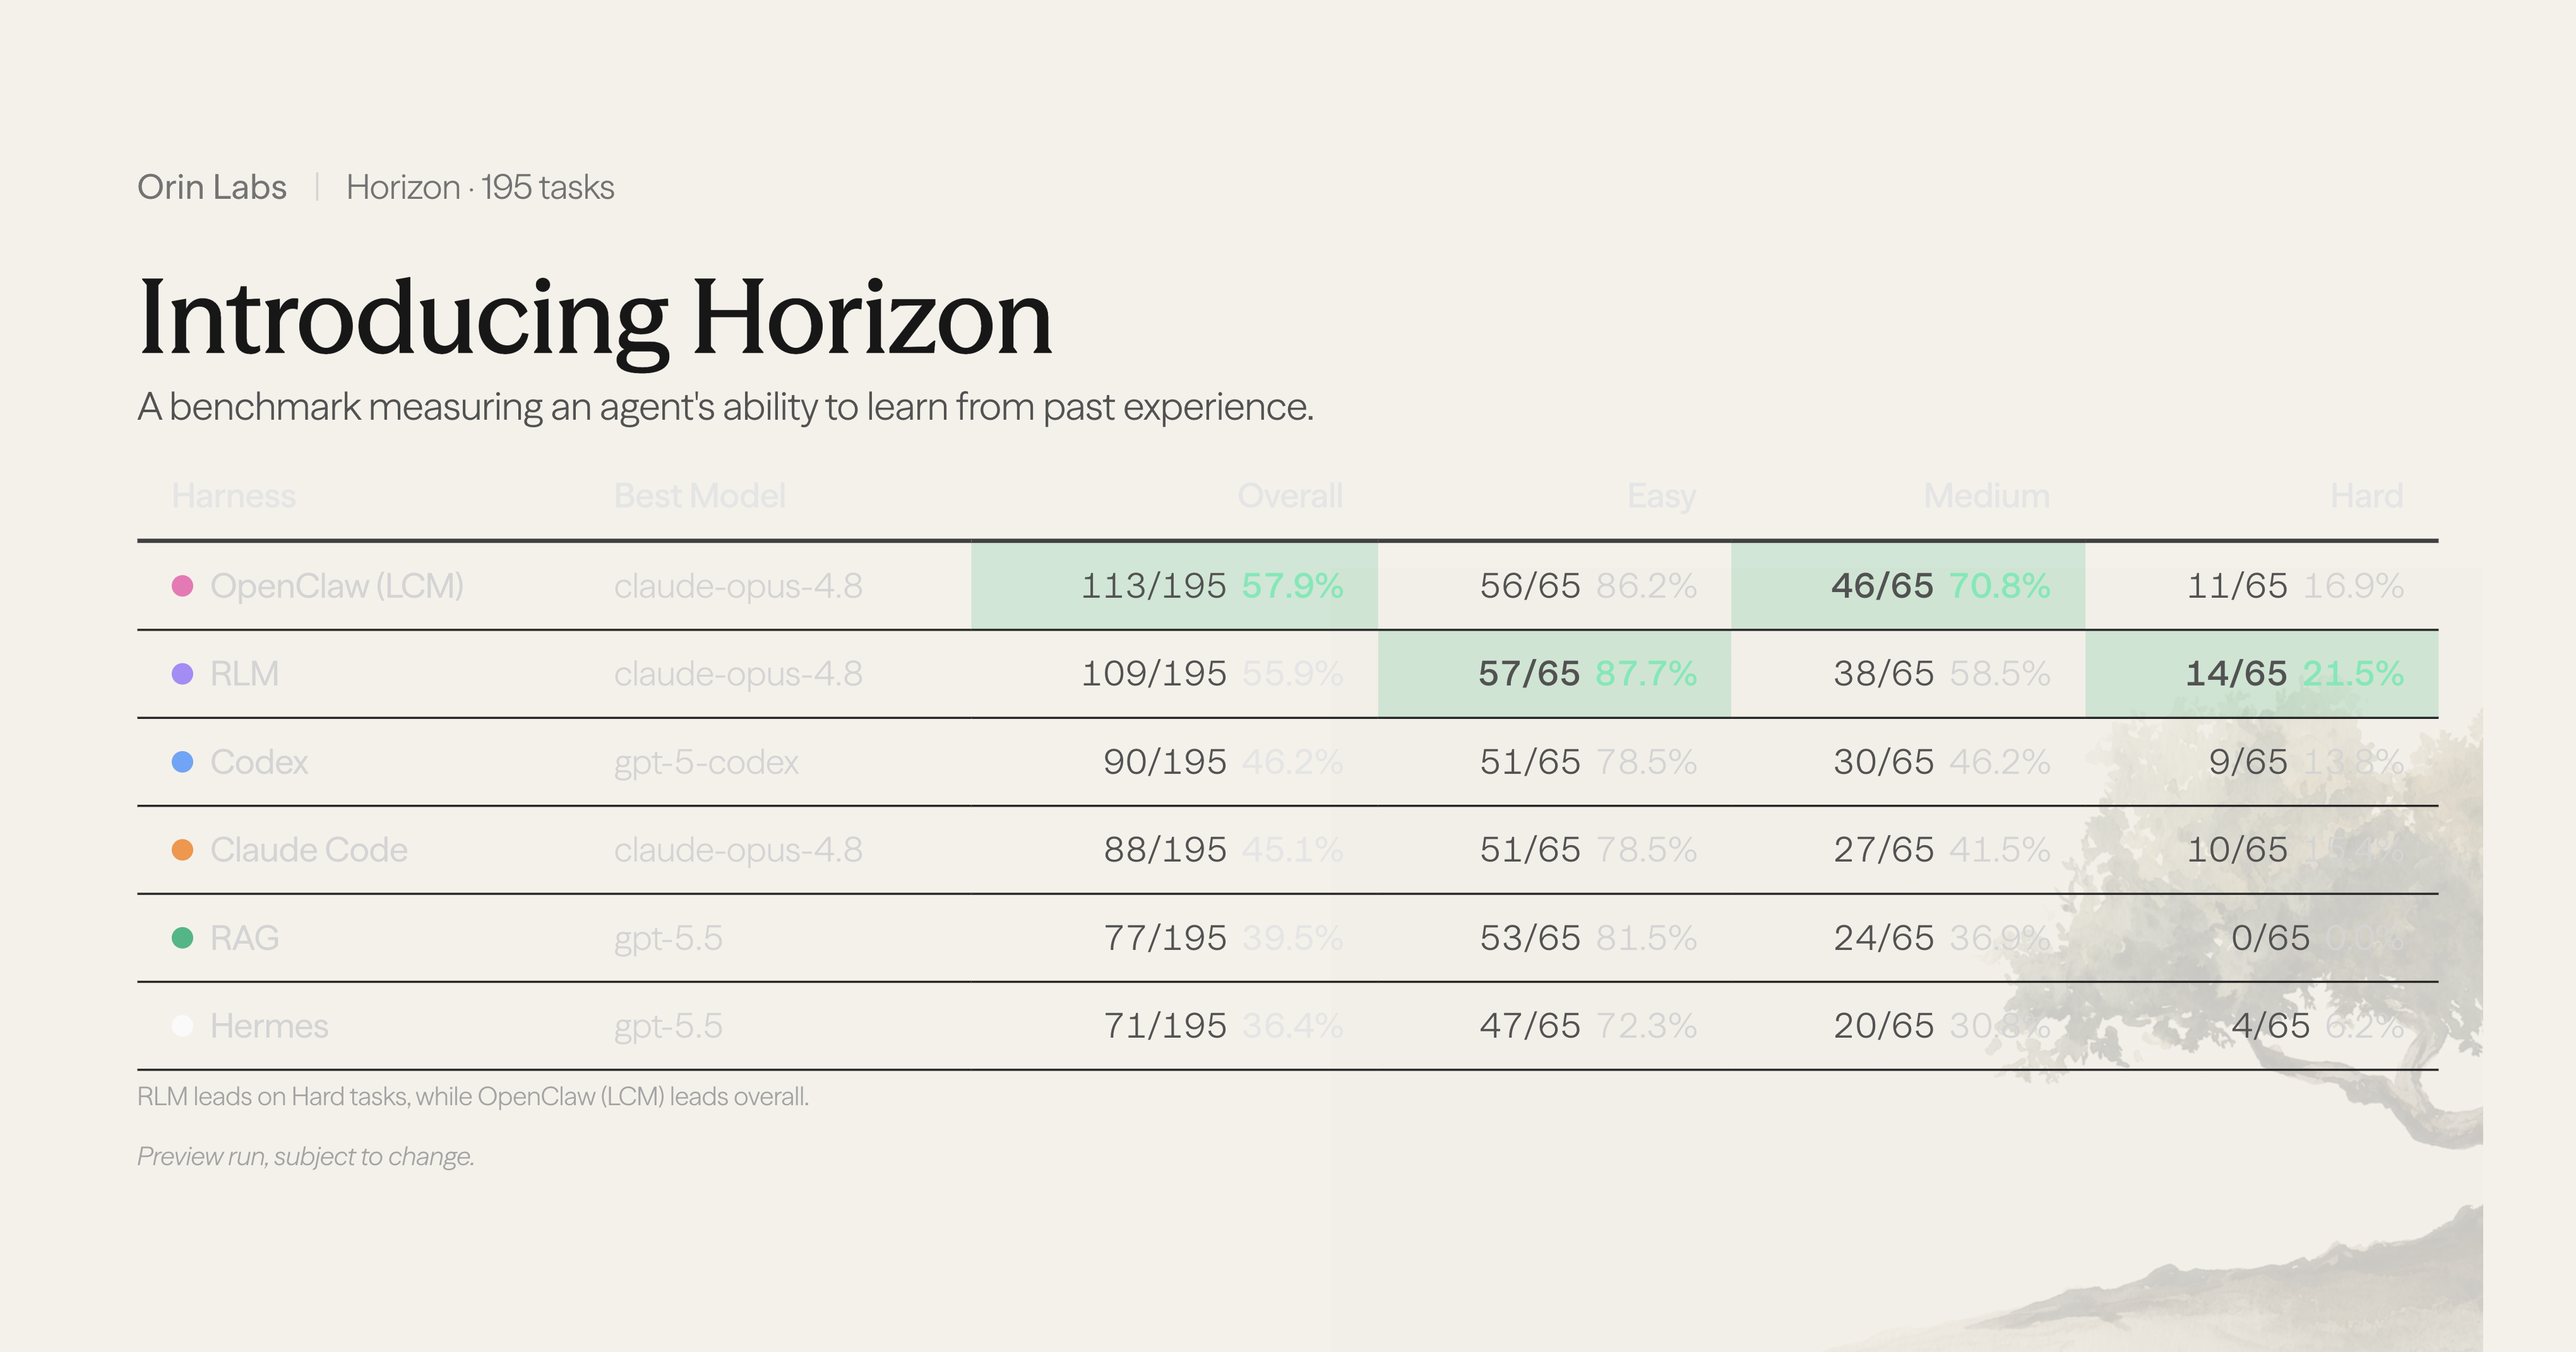
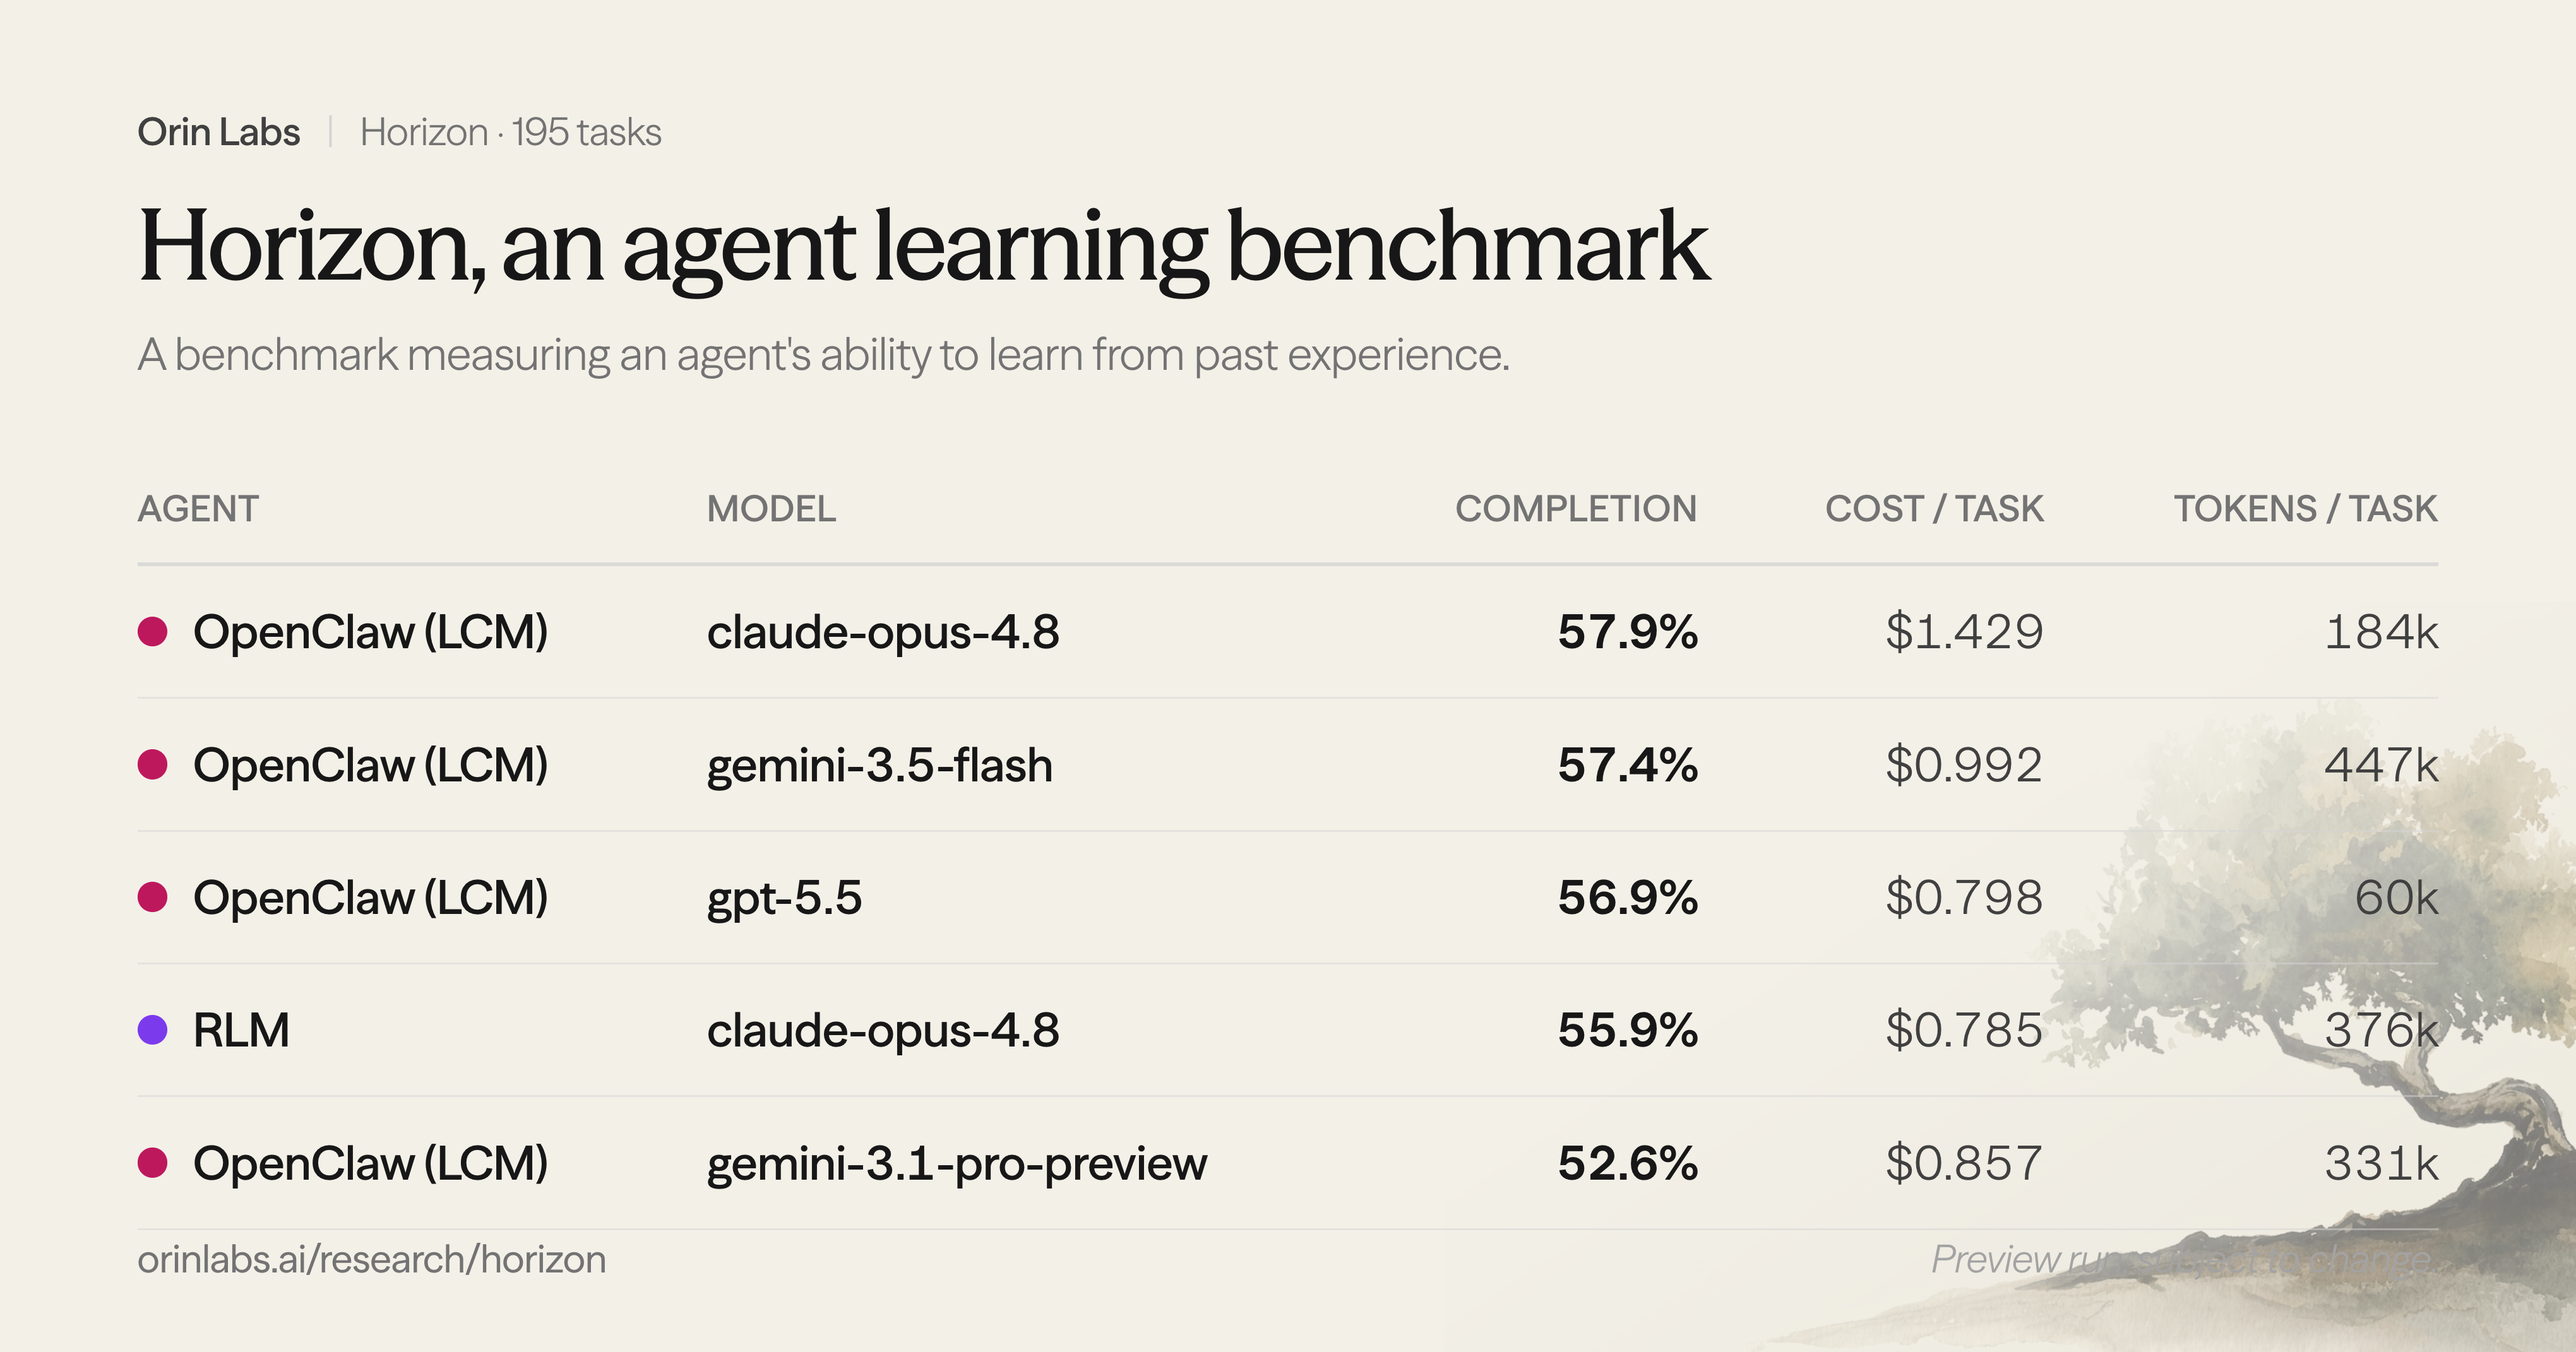
feat(horizon): regenerate OG image and refine closing sections
Rebuild the social unfurl image (public/horizon-og.png) from a dedicated
capture page: higher-contrast harness/model names, top 5 rows, retitled
"Horizon, an agent learning benchmark", over the cream background and tree
watermark. Move Takeaways above All Results, fold the data-permissions note
under the results table, hide the Thanks section until launch, and point the
participate CTA at founders@orinlabs.ai.

diff --git a/src/pages/OgHorizonCapture.tsx b/src/pages/OgHorizonCapture.tsx
@@ -1,0 +1,127 @@
+// Throwaway render target used to generate the Horizon social/unfurl image
+// (public/horizon-og.png). Visit /og-horizon-capture and screenshot the
+// #og-capture element at 1200x630 with deviceScaleFactor ~3.4 to produce the
+// 4080x2142 asset. Not linked anywhere and not prerendered (see seo.ts ROUTES).
+
+import {
+  agentColor,
+  displayAgentType,
+  fmtCost,
+  fmtPct,
+  fmtTokens,
+  RESULTS,
+} from '../components/horizon';
+
+const TOP_ROWS = 5;
+const BG = '#f3f0e8';
+
+const topResults = [...RESULTS]
+  .sort((a, b) => b.completion - a.completion)
+  .slice(0, TOP_ROWS);
+
+export default function OgHorizonCapture() {
+  return (
+    <div style={{ background: BG }}>
+      <div
+        id="og-capture"
+        style={{ width: 1200, height: 630, backgroundColor: BG }}
+        className="relative overflow-hidden text-neutral-900 flex flex-col px-16 pt-12 pb-11"
+      >
+        {/* Subtle watercolor tree watermark, bleeding off the bottom-right and
+            faded into the background toward the content. */}
+        <img
+          src="/tree_color.jpeg"
+          alt=""
+          aria-hidden
+          className="pointer-events-none select-none absolute -bottom-6 -right-8 w-[560px]"
+          style={{
+            mixBlendMode: 'multiply',
+            opacity: 0.5,
+            WebkitMaskImage:
+              'linear-gradient(to top left, black 22%, transparent 68%)',
+            maskImage:
+              'linear-gradient(to top left, black 22%, transparent 68%)',
+          }}
+        />
+
+        <div className="relative z-10 flex flex-col h-full">
+          <div className="flex items-center gap-3 text-[18px] text-neutral-500">
+            <span className="font-semibold text-neutral-700">Orin Labs</span>
+            <span className="text-neutral-300">|</span>
+            <span>Horizon · 195 tasks</span>
+          </div>
+
+          <h1 className="mt-4 text-[46px] font-bold tracking-tight leading-none">
+            Horizon, an agent learning benchmark
+          </h1>
+          <p className="mt-3 text-[21px] text-neutral-500">
+            A benchmark measuring an agent's ability to learn from past
+            experience.
+          </p>
+
+          <table className="mt-8 w-full border-collapse text-[22px]">
+            <thead>
+              <tr className="border-b-2 border-neutral-300/80 text-left">
+                <th className="py-3 pr-4 font-semibold text-neutral-500 text-[17px] uppercase tracking-wide whitespace-nowrap">
+                  Agent
+                </th>
+                <th className="py-3 px-4 font-semibold text-neutral-500 text-[17px] uppercase tracking-wide whitespace-nowrap">
+                  Model
+                </th>
+                <th className="py-3 px-4 font-semibold text-neutral-500 text-[17px] uppercase tracking-wide text-right whitespace-nowrap">
+                  Completion
+                </th>
+                <th className="py-3 px-4 font-semibold text-neutral-500 text-[17px] uppercase tracking-wide text-right whitespace-nowrap">
+                  Cost / task
+                </th>
+                <th className="py-3 pl-4 font-semibold text-neutral-500 text-[17px] uppercase tracking-wide text-right whitespace-nowrap">
+                  Tokens / task
+                </th>
+              </tr>
+            </thead>
+            <tbody>
+              {topResults.map((row) => (
+                <tr
+                  key={row.id}
+                  className="border-b border-neutral-300/50"
+                >
+                  <td className="py-3.5 pr-4 whitespace-nowrap">
+                    <span className="flex items-center gap-3">
+                      <span
+                        className="inline-block w-3.5 h-3.5 rounded-full shrink-0"
+                        style={{ background: agentColor(row.agentType, false) }}
+                      />
+                      <span className="font-semibold text-neutral-900">
+                        {displayAgentType(row.agentType)}
+                      </span>
+                    </span>
+                  </td>
+                  <td className="py-3.5 px-4 font-semibold text-neutral-900 tabular-nums whitespace-nowrap">
+                    {row.model}
+                  </td>
+                  <td className="py-3.5 px-4 text-right font-bold text-neutral-900 tabular-nums whitespace-nowrap">
+                    {fmtPct(row.completion)}
+                  </td>
+                  <td className="py-3.5 px-4 text-right text-neutral-700 tabular-nums whitespace-nowrap">
+                    {row.costUsd != null ? fmtCost(row.costUsd) : '—'}
+                  </td>
+                  <td className="py-3.5 pl-4 text-right text-neutral-700 tabular-nums whitespace-nowrap">
+                    {row.tokensLabel ??
+                      (row.tokens != null ? fmtTokens(row.tokens) : '—')}
+                  </td>
+                </tr>
+              ))}
+            </tbody>
+          </table>
+
+          <div className="mt-auto flex items-center justify-between text-[18px] text-neutral-400">
+            <span className="font-medium text-neutral-500">
+              orinlabs.ai/research/horizon
+            </span>
+            <span className="italic">Preview run, subject to change.</span>
+          </div>
+        </div>
+      </div>
+    </div>
+  );
+}

diff --git a/src/components/horizon/sections.tsx b/src/components/horizon/sections.tsx
@@ -142,7 +142,7 @@ export function ParticipateSection() {
     <p className="research-prose text-sm text-neutral-500 dark:text-neutral-400 mb-4">
       Building a long-horizon agent? Evaluate it against Horizon —{" "}
       <a
-        href="mailto:contact@orinlabs.com"
+        href="mailto:founders@orinlabs.ai"
         className="underline hover:text-neutral-700 dark:hover:text-neutral-300"
       >
         get in touch
@@ -161,14 +161,13 @@ export function ParticipateSection() {
   );
 }
 
+// NOTE: Hidden from the page until launch (not rendered in Horizon.tsx).
 export function ThanksSection() {
   return (
     <Section title="Thanks">
       <p>
-        {/* TODO: replace with final acknowledgements. */}
-        Thanks to [collaborators, design partners, and annotators] who helped
-        build, review, and stress-test Horizon, and to the customers who allowed
-        us to learn from their real agent traces.
+        Thanks to Furong Huang and Daytona Startup Grid, and to the customers
+        who allowed us to learn from their real agent traces.
       </p>
     </Section>
   );

diff --git a/src/pages/research/Horizon.tsx b/src/pages/research/Horizon.tsx
@@ -14,7 +14,6 @@ import {
   ParticipateSection,
   TakeawaysSection,
   TaskAnatomySection,
-  ThanksSection,
 } from '../../components/horizon';
 import { ResearchArticle, Section } from '../../components/WhitePaper';
 
@@ -92,19 +91,18 @@ export default function Horizon() {
 
       <IntegritySection />
 
-      <Section title="All Results">
-        <HorizonResults />
-      </Section>
-
       <TakeawaysSection />
 
-      <ThanksSection />
+      <Section title="All Results">
+        <HorizonResults />
+        <p className="mt-1 text-xs text-neutral-500 dark:text-neutral-400 italic">
+          *All data was collected with proper user permissions.
+        </p>
+      </Section>
+
+      {/* <ThanksSection /> hidden until launch. */}
 
       <ParticipateSection />
-
-      <p className="research-prose text-sm italic mb-12">
-        *All data was collected with proper user permissions.
-      </p>
     </ResearchArticle>
   );
 }

diff --git a/src/App.tsx b/src/App.tsx
@@ -13,6 +13,7 @@ import {
 import Layout from './components/Layout';
 import Home from './pages/Home';
 import NotFound from './pages/NotFound';
+import OgHorizonCapture from './pages/OgHorizonCapture';
 import PrivacyPolicy from './pages/PrivacyPolicy';
 import Research from './pages/Research';
 import Horizon, { HorizonHero } from './pages/research/Horizon';
@@ -129,6 +130,7 @@ function App() {
             </Layout>
           }
         />
+        <Route path="/og-horizon-capture" element={<OgHorizonCapture />} />
         <Route
           path="*"
           element={
